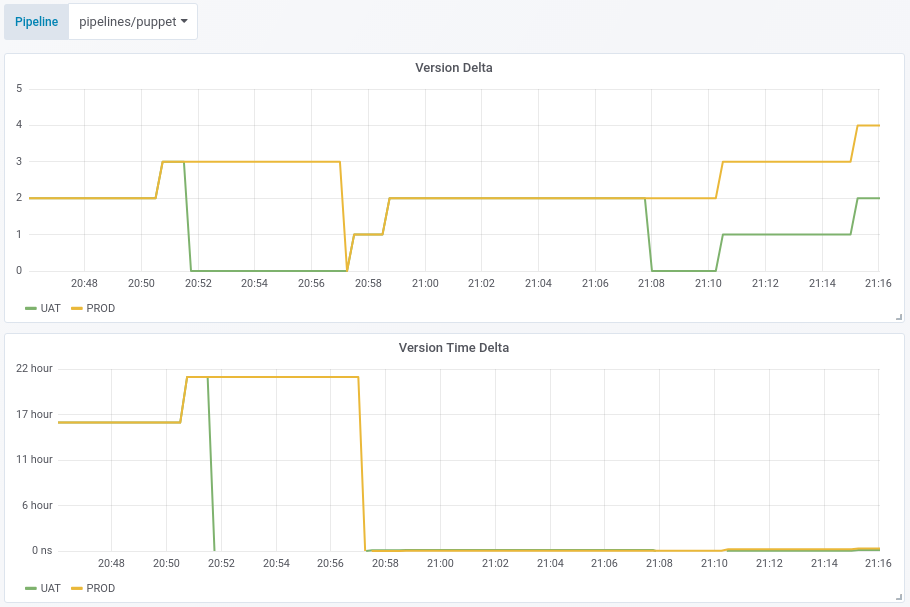
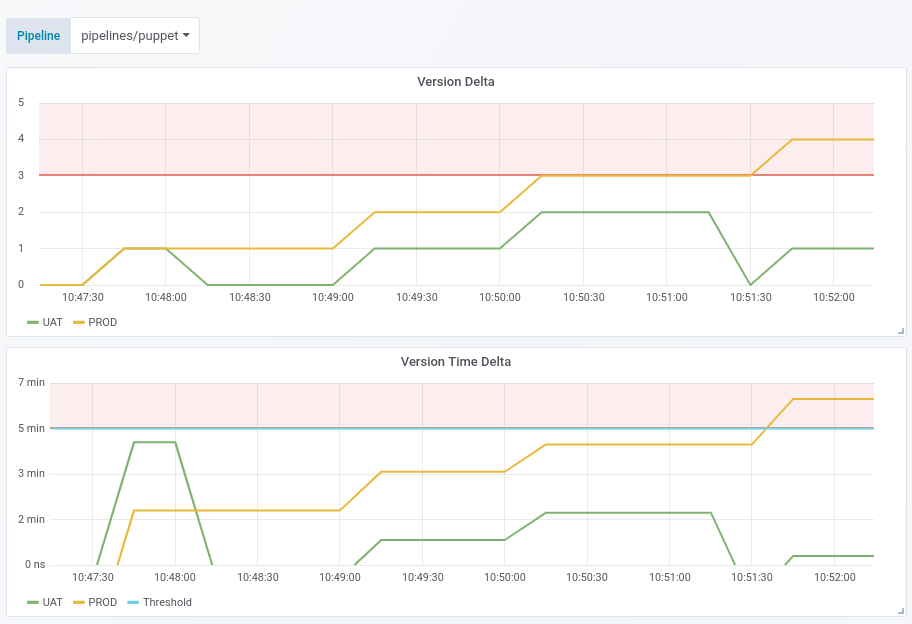
Move slides around and update screenshots

diff --git a/slides/slides.tex b/slides/slides.tex
@@ -61,7 +61,7 @@
     \vspace{20pt}
     We have around 2500 jobs in or main Jenkins master \\
     \vspace{20pt}
-    \textbf{\textit{Great} if you want to DoS your Jenkins master!}
+    \textbf{\textit{Great} if you want to Do6S your Jenkins master!}
   \end{center}
 \end{frame}
 
@@ -163,6 +163,18 @@ changes(jenkins_custom_last_checkout_build_number {result="successful",jenkins_j
   \end{center}
 \end{frame}
 
+\begin{frame}{Dashboards!}
+  \begin{center}
+    \includegraphics[width=0.55\textwidth]{img/stats.png}
+  \end{center}
+\end{frame}
+
+\begin{frame}{Dashboards!}
+  \begin{center}
+    \includegraphics[width=0.78\textwidth]{img/graphs.png}
+  \end{center}
+\end{frame}
+
 \begin{frame}[fragile]{Finally something we can work with!}
   \begin{minted}[fontsize=\scriptsize,breaklines]{yaml}
  - record: jenkins:deploydelta:devprod
@@ -176,19 +188,7 @@ changes(jenkins_custom_last_checkout_build_number {result="successful",jenkins_j
   \end{minted}
 \end{frame}
 
-\begin{frame}{Dashboards!}
-  \begin{center}
-    \includegraphics[width=0.8\textwidth]{img/graphs.png}
-  \end{center}
-\end{frame}
-
-\begin{frame}{Dashboards!}
-  \begin{center}
-    \includegraphics[width=0.8\textwidth]{img/stats.png}
-  \end{center}
-\end{frame}
-
-\begin{frame}{Dashboards!}
+\begin{frame}{Alerts!}
   \begin{center}
     \includegraphics[width=0.8\textwidth]{img/alerts.png}
   \end{center}
